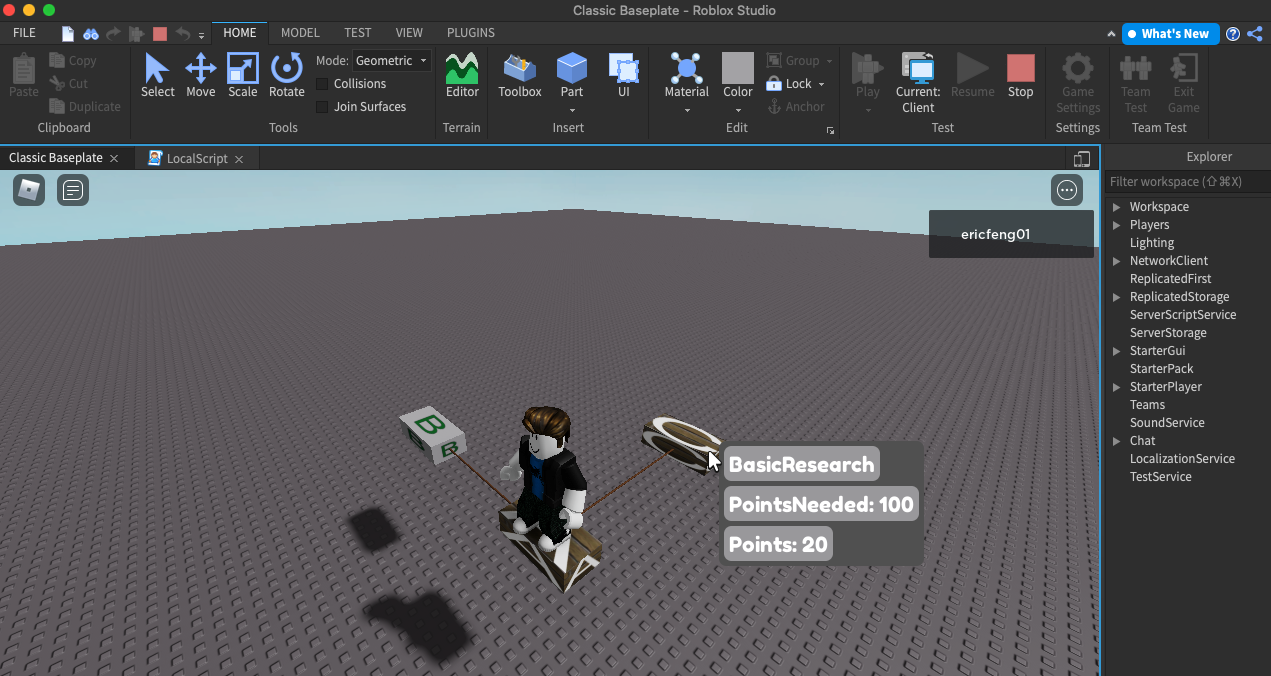
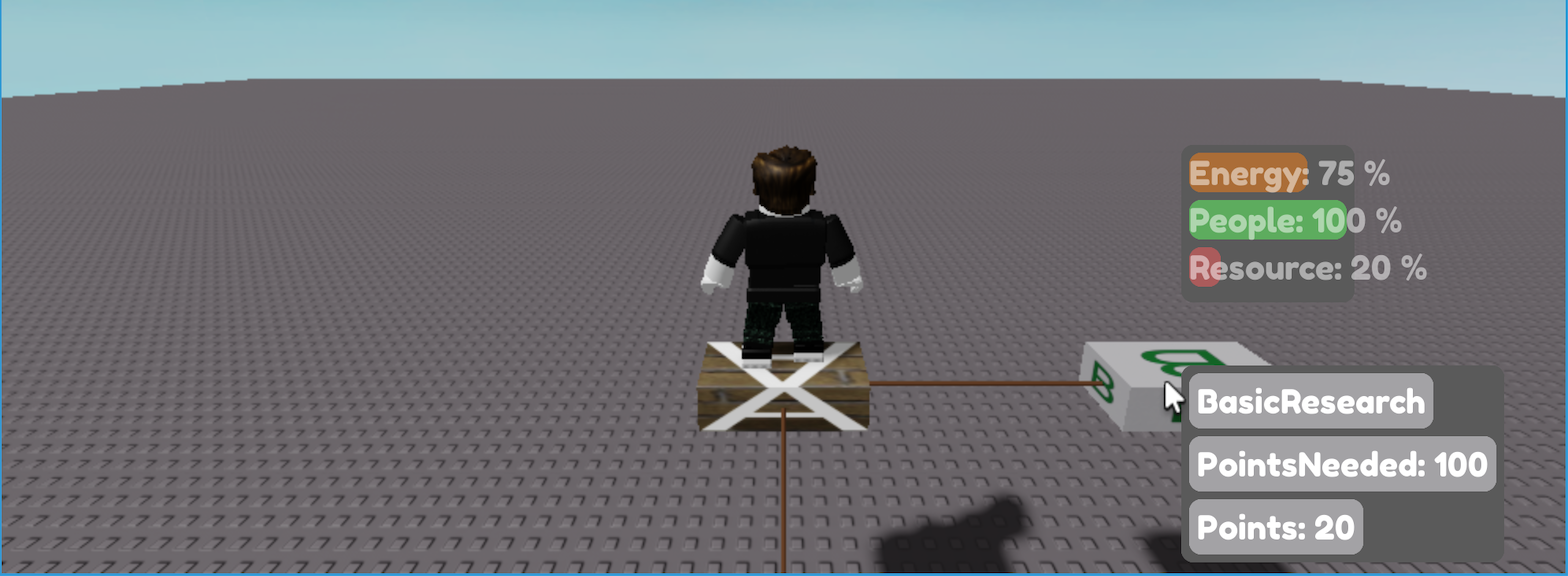
Added percentage bars for Energy, People, and Resource.

diff --git a/README.md b/README.md
@@ -9,6 +9,9 @@ Coding practices:
 <br>
 3. Show Readout information when mouse hoving over parts.
 <br>
+<br>
+4. Added percentage bars for Energy, People, and Resource.
+<br>
 
 Services used in the example:
 <br>
